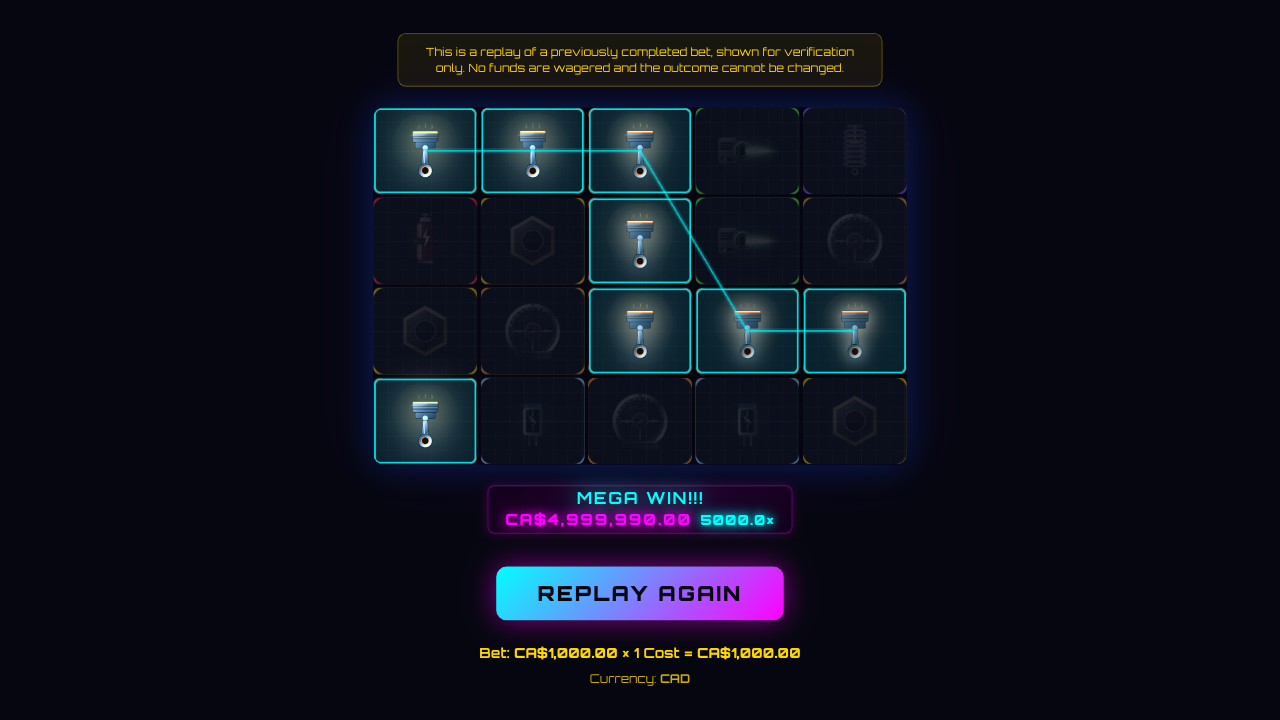
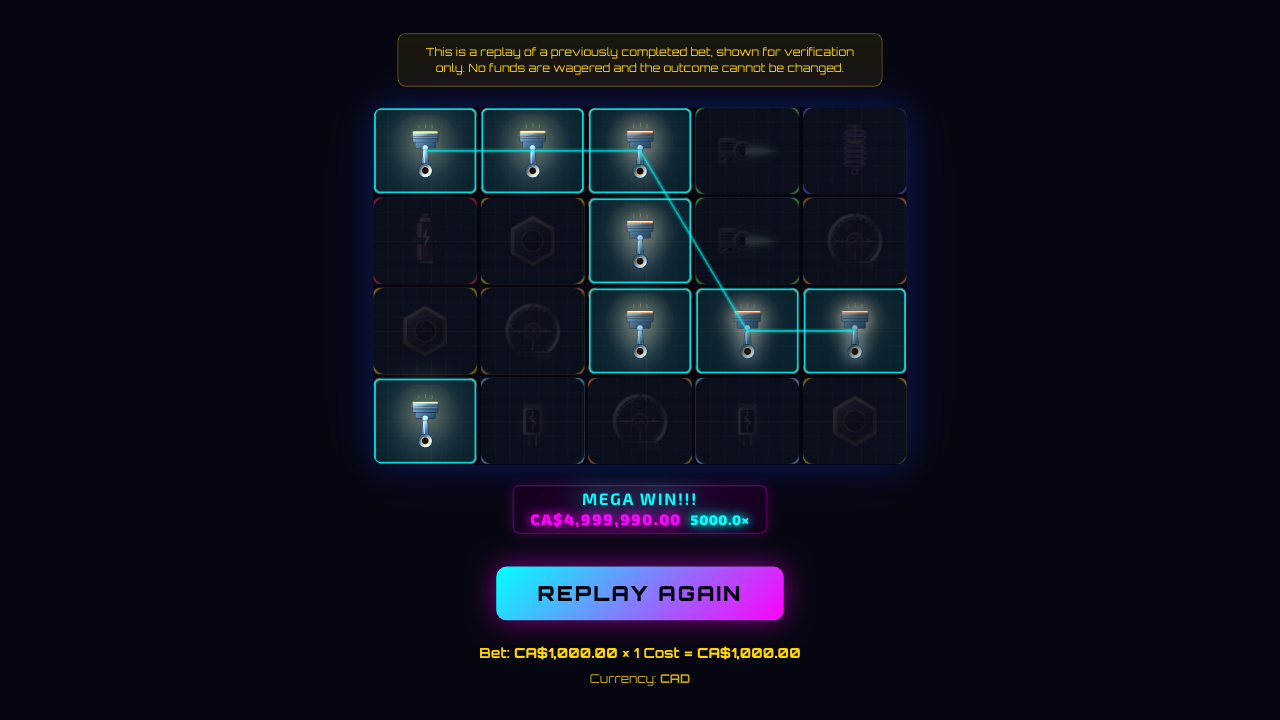
R072: the replay end-frame holds its spotlight, and the scope guard proves live did not move
TASK 1. A replay is a verification surface, not a play surface: a player opens it
to check one round, and the frame they end on is the frame they read. Until today
that end-frame was the teardown's. The burst dims the non-winners, a timer strips
that four seconds later, and the replay's own sequence completes two seconds
after the burst, so the settled board had every cell at full brightness and
nothing distinguishing the winning way. Measured on the shipped build: twelve of
twenty cells dimmed at the moment, zero at rest.

The motion still comes off, so nothing pulses forever and reduced motion is
unaffected, but the dim stays and the Pixi borders and connecting lines persist
with it, so the winning way reads as one shape.

Two choices recorded because either could look arbitrary later. The hold is its
own class rather than a skipped removal, because a class name survives
minification as a string and can therefore be seeded, where a control-flow branch
cannot. And the dim level is not copied: app.css lists the two classes in one
declaration block, so the end frame holds the moment's own treatment by
construction rather than by two numbers agreeing.

TASK 2. An in-page recorder installed before first paint samples every cell's
computed opacity at 100ms, so each drive reports the moment AND the rest state.
Both are needed: an end-state reading alone cannot tell a held spotlight from a
round that never had one. Five assertions, three sizes, both vocabularies,
[…]

Changed region(s): [[0.375, 0.6722, 0.625, 0.7639]]

diff --git a/frontend/src/lib/components/GameGrid.svelte b/frontend/src/lib/components/GameGrid.svelte
@@ -42,6 +42,7 @@
     scatterEscalation, resetEscalation, type EscalationLevel,
   } from '../stores/scatterEscalation'
   import { activeTheme, themeAssets } from '../stores/themeStore'
+  import { replayParams } from '../stores/replayStore'
 
   // Idle attract mode (ANIMATION UPLIFT PASS 2026-07-16, item 5): App.svelte
   // owns the 20s timer; this is just a boolean prop, so `class:` in the
@@ -756,12 +757,57 @@
     // autoplay scheduler's own fire-time re-check.
     const armWinBurstTeardown = () => setTimeout(() => {
       if (get(isWincap)) { winBurstTimer = armWinBurstTeardown(); return }
+      // THE REPLAY END-FRAME HOLDS ITS SPOTLIGHT (owner's direction, R072).
+      //
+      // A replay is a VERIFICATION surface, not a play surface. A player opens
+      // it to check one round, and the frame they end on is the frame they read.
+      // Until now that end-frame was the teardown's: this timer stripped the win
+      // presentation four seconds after the burst, the replay's own sequence
+      // completes two seconds after it, so the settled frame a player was left
+      // studying had every cell at full brightness and nothing distinguishing
+      // the winning way from the board around it.
+      //
+      // In replay the MOTION comes off exactly as before, so nothing pulses or
+      // flashes forever and reduced motion is unaffected, but the DIM STAYS: the
+      // non-winners keep `loser-dim`, which is the very treatment the moment
+      // itself used, and the winners keep full opacity. The Pixi overlay's gold
+      // borders and connecting lines are drawn once and cleared only by the next
+      // `animateSpin`, of which a finished replay has none, so they persist with
+      // it and the winning way reads as one shape.
+      //
+      // LIVE PLAY IS UNTOUCHED AND THAT IS THE POINT OF THE GUARD. `replayParams`
+      // is null in live play, so this branch cannot be entered there; the live
+      // teardown below is the same code it has always been, and the pixel guard
+      // in the proof battery asserts the live end-state has not moved a channel.
+      // Computed unconditionally rather than behind the flag, so the type is a
+      // Set and never a null the loop below has to re-narrow on every cell.
+      const holdSpotlight = get(replayParams) !== null
+      const winners = _winningCells(wins, board)
       for (let col = 0; col < REELS; col++) {
         for (let row = 0; row < ROWS; row++) {
           const img     = visImg(col, row)
           const overlay = visOverlay(col, row)
           const cell    = visCell(col, row)
-          if (img) { img.style.opacity = '1'; img.classList.remove('win-flash', 'loser-dim') }
+          if (img) {
+            img.style.opacity = '1'
+            img.classList.remove('win-flash', 'loser-dim')
+            // THE HOLD IS ITS OWN CLASS, NOT A SKIPPED REMOVAL, and that is a
+            // deliberate choice about what can be SEEDED. Leaving `loser-dim`
+            // in place would hold the dim, but the defect this must be provable
+            // against, the all-bright end-frame that shipped until today, could
+            // then only be seeded by patching a control-flow branch, which
+            // minifies to something no self-test can target honestly. A class
+            // name survives minification as a STRING, so the seed plants the
+            // real defect in the real form: rename the literal and no rule
+            // matches, the end frame goes all-bright, and the gate goes red.
+            // The level is not copied: app.css lists this class beside
+            // `loser-dim` in ONE rule, so the end frame holds the moment's own
+            // treatment by construction rather than by two numbers agreeing.
+            if (holdSpotlight && !winners.has(`${col},${row}`)) {
+              img.style.opacity = ''
+              img.classList.add('end-frame-dim')
+            }
+          }
           overlay?.classList.remove('win-spin-fast')
           cell?.classList.remove('plate-bloom', 'pre-charge')
         }
@@ -777,7 +823,10 @@
         const img     = visImg(col, row)
         const overlay = visOverlay(col, row)
         const cell    = visCell(col, row)
-        if (img) { img.style.opacity = '1'; img.classList.remove('win-flash', 'loser-dim') }
+          // `end-frame-dim` comes off here too. A feature replay drives several
+        // spins, so a held end frame from spin N must not survive into spin N+1;
+        // this is the path every new spin goes through.
+        if (img) { img.style.opacity = '1'; img.classList.remove('win-flash', 'loser-dim', 'end-frame-dim') }
         overlay?.classList.remove('win-spin-fast')
         cell?.classList.remove('plate-bloom', 'pre-charge', 'scatter-charge')
       }
@@ -1521,8 +1570,16 @@
   }
   .symbol-cell.plate-bloom { animation: plate-bloom-pulse 0.6s ease-in-out infinite; z-index: 5; }
 
-  /* Dimmed, desaturated losers - spotlight the winners (harder than before). */
-  .symbol-img:global(.loser-dim) {
+  /* Dimmed, desaturated losers - spotlight the winners (harder than before).
+
+     `end-frame-dim` is listed HERE, in the same rule, rather than given values
+     of its own. R072's owner direction is that the replay's settled end-frame
+     keeps non-winners at THE MOMENT-DIM LEVEL, and the only way to make that
+     true rather than approximately true is for the two states to be one
+     declaration block. Two rules with matching numbers drift the first time
+     either is tuned; this cannot. */
+  .symbol-img:global(.loser-dim),
+  .symbol-img:global(.end-frame-dim) {
     opacity: 0.2 !important;
     filter: grayscale(0.6) brightness(0.62) !important;
     animation: none !important;
@@ -1672,7 +1729,8 @@
     .symbol-cell.scatter-charge::before, .symbol-cell.scatter-charge::after { display: none; }
     /* Winners still spotlight, but statically (no pop / pulse / flash motion);
        losers still dim. Particle bursts are gated in JS (_reduceMotion). */
-    .symbol-img:global(.loser-dim) { transition: none; }
+    .symbol-img:global(.loser-dim),
+    .symbol-img:global(.end-frame-dim) { transition: none; }
     /* Item 4 additions: the neighbour dim stays (a static state, not motion)
        but loses its transition; edge sparks are motion, so they're hidden. */
     .symbol-grid:global(.grid-anticipating) .symbol-col:not(:global(.col-anticipate)) .reel-strip { transition: none; }

diff --git a/docs/records/reviews/REVIEW_TRACKER.md b/docs/records/reviews/REVIEW_TRACKER.md
@@ -487,8 +487,11 @@ Commit dates are authoritative. **Today is 2026-07-25**, and git agrees: the who
 
 | TR-163 | **The records swept to HEAD truth: fifty-two stale status cells across four registers, the fifty-one mapping's owner instruction, TR-148's unreadable citation, and Q6 honestly re-opened** (R071 TASK 8) | The consolidated open register at `reports/qa/analysis-2026-08-15/OPEN_REGISTER.md`, which enumerated 109 items and found 68 whose recorded status did not match `main` at `90f21280` | **FIXED AND CLOSED 2026-08-15 by R071.** **Of the 68, sixteen closed themselves when PR #123 and #124 merged**, thirteen of those being the stand-back LEDGER rows, which were never wrong: they described the state on an unmerged branch and now describe main. **The remaining fifty-two were swept by hand, and EVERY ONE was re-verified first-hand at HEAD before its cell was touched**, per rule 16, because the register itself marked 62 of its 68 as REPORTED rather than VERIFIED and a REPORTED premise says what to check, not what is true. Fourteen cells in `REVIEW_TRACKER.md`, twelve in `QUALITY_CHARTER.md` counting its three prose sections, twelve in the stream test's `KNOWN_OPEN.md`, and seven in `COMPLIANCE_WATCH.md` where two more had already been corrected on merge. **TR-148's citation is replaced**: it cited a GITIGNORED path no reviewer cloning the repository can open, so the finding was recounted from scratch and the recount is committed as a tracked artefact. **The fifty-one mapping is corrected**: its header set up a job that does not exist | Record integrity | `main` | **CLOSED 2026-08-15 by R071** | **THE SHAPES ARE WORTH MORE THAN THE COUNT, so they are named.** (1) **Rows that contradict themselves inside one cell** are the worst kind, because a reader has no way to tell which half was written later: TR-096's status read OPEN while its own notes ended "AMENDED AND CLOSED BY THE OWNER", and TR-069 and TR-071 read APPROVED FOR THE FIX PASS beside evidence cells reading FIXED and RESOLVED. (2) **Rows awaiting evidence about deleted components**: TR-087 and the compliance register's SA-022 both awaited a live re-capture of a surface that no longer exists, which no capture can ever close. (3) **Counts written into rows**, the convention (s) defect in miniature: Q-07's four instances are seven, TR-122's 337 is 272. **The row should name the file, never the number.** (4) **Signs left up after the work finished**: charter section 4.3 and the Q-16 park both described a pass as waiting that had already landed, and stayed that way because the closing pass had no instruction to come back. **What was NOT swept is named too**: the locale gate's own blind spot stays open and is deliberately not declared closed by a neighbouring gate, because two partial instruments are not one complete one; the RTL row is narrowed to the layout question rather than closed on the direction attribute; C-12 stays UNDISPOSITIONED because inventing a disposition now would be the thing the original note refused to do; and **AUDIT_CLOSURE Q6 is RE-OPENED rather than re-proved**, with what is missing named exactly: the session-bearing game url, which only exists once the owner launches the game in his own logged-in browser, and which no amount of builder work can produce |
 
-| TR-164 | **A 44px touch target that was only a coincidence, and the wider question of what the numeric token now means** (R071, found by the remote matrix on run 32237102403) | Remote CI, `browser: popout conformance`, three profiles red at once on 2026-08-15 | **FIXED AND CLOSED 2026-08-15 by R071.** The IntroSplash Continue button met the 44px accessibility floor **only as a side effect of its padding plus Orbitron's line box**. Exo 2's line box is shorter, so the height fell to 39 at popout S, popout L and mobile S simultaneously, which is the signature of a shared cause rather than three layout problems. **`min-height: 44px` now STATES the requirement** instead of leaving it to be inferred from font metrics, with the reason recorded at the rule. Re-run green: popout conformance across three viewports with real clicks, money fit at 205 assertions, layout fit at seven presets | Accessibility, player-facing | `main` | **CLOSED 2026-08-15 by R071** | **TWO THINGS ARE SURFACED HERE RATHER THAN DECIDED QUIETLY, per convention (n).** **(1) The token changed MEANING underneath forty-three consumers.** `--fs-font-numeric` was the face for money and counting, and the owner's ruling moved it to Exo 2 on that basis. But the token is also used by the Continue button, the loading screen, the hero splash and the dev theme selector, none of which is a money or counting surface, and all of them changed face without anyone deciding they should. **Whether those belong on the display face is an ART CALL and is left to the owner**, not taken by the builder; nothing about it is broken, and the enumeration is here so the question is asked from evidence rather than rediscovered from a screenshot. **(2) The gate's own label and threshold disagree**: the assertion is named "meets the 44px touch target" and tests `>= 40`. The fix above satisfies both readings, so nothing is masked, and the threshold is deliberately NOT changed here, because moving a gate's number in the same pass that makes it pass is how a gate stops meaning anything. Raised for a dedicated decision |
+| TR-164 | **A 44px touch target that was only a coincidence, and the wider question of what the numeric token now means** (R071, found by the remote matrix on run 32237102403) | Remote CI, `browser: popout conformance`, three profiles red at once on 2026-08-15 | **FIXED AND CLOSED 2026-08-15 by R071.** The IntroSplash Continue button met the 44px accessibility floor **only as a side effect of its padding plus Orbitron's line box**. Exo 2's line box is shorter, so the height fell to 39 at popout S, popout L and mobile S simultaneously, which is the signature of a shared cause rather than three layout problems. **`min-height: 44px` now STATES the requirement** instead of leaving it to be inferred from font metrics, with the reason recorded at the rule. Re-run green: popout conformance across three viewports with real clicks, money fit at 205 assertions, layout fit at seven presets | Accessibility, player-facing | `main` | **CLOSED 2026-08-15 by R071; the art call it raised is CLOSED 2026-08-20 by the owner** | **TWO THINGS ARE SURFACED HERE RATHER THAN DECIDED QUIETLY, per convention (n).** **(1) The token changed MEANING underneath forty-three consumers.** `--fs-font-numeric` was the face for money and counting, and the owner's ruling moved it to Exo 2 on that basis. But the token is also used by the Continue button, the loading screen, the hero splash and the dev theme selector, none of which is a money or counting surface, and all of them changed face without anyone deciding they should. **Whether those belong on the display face is an ART CALL and is left to the owner**, not taken by the builder; nothing about it is broken, and the enumeration is here so the question is asked from evidence rather than rediscovered from a screenshot. **(2) The gate's own label and threshold disagree**: the assertion is named "meets the 44px touch target" and tests `>= 40`. The fix above satisfies both readings, so nothing is masked, and the threshold is deliberately NOT changed here, because moving a gate's number in the same pass that makes it pass is how a gate stops meaning anything. Raised for a dedicated decision. **THE ART CALL IS ANSWERED, 2026-08-20, and the owner's review is quoted rather than summarised: the 1,024 plate confirmed in the new face at the glass, the blanket Exo 2 ruling stands.** So the forty-three consumers stay as they are, including the ones that are neither money nor counting, and this is now a RULING rather than an open question: a later session finding the Continue button on the numeric token should read this row and leave it alone. The 44px threshold question is untouched by that and remains the one live item from this row |
 
 | TR-165 | **The count-up gate measured a lone glyph's BOX where it meant the ADVANCE, and only the remote runner could tell** (R071, found by run 32240497823) | Remote CI, `browser: win count-up steady`, red on `main` while green locally on the same commit, 2026-08-15 | **FIXED AND CLOSED 2026-08-15 by R071.** The gate rendered each digit alone and compared element widths. **That is the wrong quantity.** A lone glyph's box is its ink PLUS its side bearings, quantised to whole device pixels, and side bearings are exactly what tabular figures do not equalise; the advance is the distance from one glyph to the next and therefore only exists BETWEEN glyphs. The measurement now renders each digit at two lengths and takes the difference divided by the gap, so the bearings appear in both terms and cancel and any rounding is divided by ten with everything else. **Spread across all ten digits: 0.00px.** The tolerance is 1px and it is stated rather than tuned: two orders of magnitude above the rounding it must absorb and two orders below the defect it must catch, and the seed proves the second half on every run at a spread of 28.36px | Gate correctness | `main` | **CLOSED 2026-08-15 by R071 on the THIRD attempt, and all three are recorded rather than overwritten, because each was wrong in a way that looked right on this machine** | **THE FIRST FIX WAS RIGHT AND INSUFFICIENT, and saying so is the useful part.** Measuring the advance as a delta was correct and is kept. It did NOT make the gate green: the runner still reported a 2.00px spread where this machine reported 0.00, and a 2px difference is not rounding, so the delta could not be the whole story. **The real cause was that the probe never proved WHICH FACE it was measuring.** `document.fonts.status === 'loaded'` means every face the page has ASKED FOR has arrived; the probe renders at weight 900 in a detached host, and if nothing on the page happens to use that exact face and weight then nothing ever asked, so the probe measured a FALLBACK and reported its metrics as ours. Warm locally, cold on the runner, and the gate could not tell the difference. It now calls `document.fonts.load()` for both probe faces explicitly, then `document.fonts.check()` on each, and THROWS if either is absent. **A gate that cannot say which face it measured is not measuring anything**, and this estate has now paid for that exact lesson twice: once earlier in this arc when a proof waited on `document.fonts.ready` and got the same false green. **AND THAT THEORY WAS ALSO WRONG, which is why the third attempt exists.** The runner printed "faces confirmed loaded" and STILL reported a 2.00px spread. The face proof is kept because it is correct and cheap and closes a real hole, but it was not the cause. **The cause was that both earlier forms asked their question of an artefact a counter never renders**: a single glyph, or the difference between two of them, on a renderer reporting whole pixels. The measurement now asks what the count-up actually poses, **ten same-length digit runs must render at ONE width**, which needs no division, no tolerance beyond the renderer's own pixel, and returns every total so a failing run NAMES the digits that disagree. Spread 0.00px across all ten, narrowest and widest both 416.81; the seed reproduces at **283.52px**. **AND THE THIRD FORM WENT RED ON THE RUNNER TOO, which is what finally produced usable data**: ten runs of "0" measured 420px and ten runs of "4" measured 440px, on a build where the faces were confirmed loaded and where "$1,111.11" and "$8,888.88" still rendered at one width. Measured here for comparison, Exo 2 900 renders all ten runs at 416.81 with tabular figures on and spreads 123.52px with them off, and the runner's figures sit between the two: **the signature of the high-level `font-variant-numeric` property not reaching the shaper on that build**, rather than of a missing font or of rounding. **Four changes followed, and only the first is a workaround.** (1) `app.css` now asks for the same feature on BOTH paths, adding `font-feature-settings: 'tnum' 1` beside `font-variant-numeric: tabular-nums`; they are byte-identical here, so nothing shipped moves, and **a player's browser is not this machine either**. (2) The probe no longer restates the numeric treatment in its own style block: it carries `fs-num` and takes the SHIPPED rule, so deleting that rule from `app.css` now fails the gate instead of leaving it green. (3) The rule's PRESENCE is asserted directly on all three declarations, so a uniform face could never cover for a deleted rule. (4) All ten widths PRINT on every run, passing or not, because reporting only a verdict turned a red run on a machine nobody can open into a guessing game, and it cost two wrong theories before it stopped. **AND THE PRINT IMMEDIATELY EARNED ITSELF: the array came back `0=420 1=420 2=420 3=420 4=440 5=420 6=420 7=420 8=420 9=420`.** NINE of the ten digits agreed exactly and ONE, the "4", was 2px per glyph wider. **That settles it, and it settles it against my own second theory too**: tabular figures were demonstrably applied, on nine digits out of ten, so the feature was never the problem; and 2px a glyph is not rounding, which is at most one pixel. **It is the rasteriser's HINTER moving one specific glyph's advance**, which FreeType does and which Windows and macOS do not do the same way, and which nothing about asking for `tnum` can reach because `tnum` had already been applied. The fix is `text-rendering: geometricPrecision` on the same rule, the property that asks the renderer to prefer the font's GEOMETRIC metrics over the hinter's legibility adjustments, which is exactly the trade a fixed-width counter wants. **This is a PLAYER fix and not a CI accommodation**: a Linux browser with that hinting configuration would have jumped the counter 2px every time a 4 rolled past, and nobody would have seen it here. The gate asserts the declaration alongside the other three. **THE CONFIRMATION IS EXACT AND IT IS THE STRONGEST EVIDENCE IN THIS ROW.** Before the fix the runner reported WHOLE-PIXEL widths, nine at 420 and one at 440; after it, the runner reports `0=416.81 1=416.81 2=416.81 3=416.81 4=416.81 5=416.81 6=416.81 7=416.81 8=416.81 9=416.81`, **fractional, and identical to this machine to the hundredth of a pixel on all ten**. The integers were the hinter snapping advances; with geometric metrics the two machines agree exactly, which is what a font's own metrics should produce and what they now do |  **THE DISAGREEMENT BETWEEN THE TWO MACHINES IS THE FINDING, and it is exactly what rule 10 exists for.** Locally every digit read 41.69 and the gate was green; on the runner the same digits read 42 and 44 and it was red. Same commit, same build. **A local green was never evidence here, and this is the clearest instance the estate has produced of why**: the two machines differ in device pixel ratio, so one of them rounds the quantity this gate was reading and the other does not. **The tell that the gate was measuring the wrong thing was sitting in its own passing output**: the two full amounts rendered at 329px and 329px on the very run where the per-digit read disagreed, so tabular figures were demonstrably working while the assertion said they were not. An assertion that contradicts its neighbour on the same run is measuring something other than what it names |
 
 | TR-166 | **The new OVERBOOST wording put a PROHIBITED TERM on a stake.us surface**, and the social conformance gate caught it (R071, found by run 32242271451) | Remote CI, `browser: social string conformance`, 2026-08-15 | **FIXED AND CLOSED 2026-08-15 by R071, and this is the most player-facing defect the session produced.** TASK 5 applied the owner's OVERBOOST text verbatim, correctly, to the master string AND to the social override. The master reads "Debits 1.25x every spin while ON" and **"Debits" is a PROHIBITED TERM in social mode**: it names a real-money movement, and a stake.us surface must not. The gate reported both halves of the same mistake, `overboost.socialBlurb` failing because the pinned social text was the superseded "Double-chance" wording, and `social.no_Debits` failing because the master's word had reached the social render. **The social override now differs from the master by exactly one word**, "Costs", which is the word the superseded social blurb already used, so the register change is invisible to a player and the compliance property is restored. The gate's pinned expectation is conformed to the new wording rather than left defending the text the ruling removed | **Player-facing compliance, social mode** | `main` | **CLOSED 2026-08-15 by R071** | **THE LESSON IS ABOUT WHAT "VERBATIM" MEANS, and it is worth stating plainly because the instruction was followed exactly and still produced a defect.** A brief supplying player text verbatim supplies it for the MASTER register. Social mode is a different register with a prohibited-term list, and `prose.ts` already carries a rule for precisely this: **a string that reads identically in both modes is deliberately ABSENT rather than repeated**, so the act of writing an identical social override was itself the tell that something was wrong. Convention (s)'s test applies to text as much as to numbers: the master and the social string are two things that must not be assumed to agree. Re-run green: social string conformance all checks, plus locale completeness, the machine tell gate, the multiplication sign gate and the kit basis gate at 24 phrases across 7 files with its four seeds still caught |
+
+| TR-167 | **The replay's settled end-frame threw away the very thing a player opened it to see** (R072 TASK 1, owner polish direction) | Owner direction relayed in FABLE BRIEF R072, 2026-08-20 | **FIXED AND CLOSED 2026-08-20 by R072.** A replay is a VERIFICATION surface, not a play surface: a player opens it to check ONE round, and the frame they end on is the frame they actually read. Until today that end-frame was the teardown's. `GameGrid`'s win burst dims the non-winning cells, a timer strips that treatment **four seconds** later, and the replay's own sequence completes **two seconds** after the burst, so the settled board a player was left studying had **every cell at full brightness and nothing distinguishing the winning way from the board around it**. Measured on the shipped build at three sizes: twelve of twenty visible cells dimmed at the moment, **zero** still dimmed at rest. Now the MOTION comes off exactly as before, so nothing pulses or flashes forever, and the DIM STAYS. The Pixi overlay's gold borders and connecting lines are drawn once and cleared only by the next `animateSpin`, of which a finished replay has none, so they persist with it and **the winning way reads as one shape rather than as five lit tiles** | Player-facing, the verification surface | `main` | **CLOSED 2026-08-20 by R072** | **TWO IMPLEMENTATION CHOICES ARE RECORDED BECAUSE EITHER COULD LOOK ARBITRARY LATER.** (1) **The hold is its own class, `end-frame-dim`, not a skipped removal.** Leaving `loser-dim` in place would hold the dim just as well, but then the defect this must be provable against, the all-bright frame that shipped until today, could only be seeded by patching a control-flow branch, which minifies into something no self-test can target honestly. **A class name survives minification as a STRING**, so the seed plants the real defect in its real form. (2) **The dim LEVEL is not copied.** `app.css` lists `end-frame-dim` beside `loser-dim` in ONE declaration block, so the end frame holds the moment's own treatment **by construction**; two rules with matching numbers drift the first time either is tuned, and this cannot. `_resetToIdle` clears the class too, so a feature replay's spin N cannot leak its held frame into spin N+1 |
+| TR-168 | **The end-frame proof, and the scope guard that proves live play did not move** (R072 TASK 2) | R072 TASK 2, 2026-08-20 | **FIXED AND CLOSED 2026-08-20 by R072.** `replay_contract_gate.mjs` gains an in-page recorder installed BEFORE first paint, sampling every money-bearing cell's COMPUTED opacity at 100ms, so the drive reports both what the board looked like AT THE MOMENT and what it looks like once everything settles. **Both are needed and that is the point**: a reading of only the end state cannot tell a held spotlight from a round that never had one. Five assertions per drive, separated so a failure names which claim broke: the recorder sampled; a spotlight ran; cells are still dimmed at rest; **the settled dim set is the moment's set, unchanged**; and some cells are at full strength so the winning way still reads. Driven at **Desktop 1280x720, Mobile S 320x568 and Popout S 400x225**, in **both vocabularies** (a fiat currency and a social one), plus a **reduced-motion** drive that must produce the identical set. Eight frames committed. **Seeded per (p) with today's all-bright end-frame as the negative control**: the seed renames the hold's class in the shipped bundle so no rule matches, and the gate goes red on exactly the assertion that says the dim is held. 15 of 15 seeds caught, 86 of 86 assertions green | Proof integrity | `main` | **CLOSED 2026-08-20 by R072** | **THE SCOPE GUARD IS THE SAME BOARD ON THE OTHER SURFACE, and that is what makes it mean something.** It boots the ORDINARY game with a stubbed wallet serving **the same fixture events** the replay leg reads, presses SPIN, and asserts the settled board is ALL BRIGHT. Feeding the two surfaces different rounds would have left the comparison empty. Measured: **12 cells dimmed at the moment on both surfaces; replay holds all 12, live clears to 0.** **It also caught its own first draft**: the guard initially reported a peak of zero, which is a board that never had a spotlight rather than a board whose spotlight was correctly torn down, and those two must never be allowed to look alike, the same trap this gate's own unapplied-seed ledger exists to prevent. The cause was that a replay plays itself on load while live play does nothing until someone presses the button; the drive now presses it. **ONE NAMING DIFFERENCE IS SURFACED PER (n) RATHER THAN SMOOTHED OVER**: this gate's pre-existing size loop uses mobile-portrait 375x812, while Mobile S across the rest of the gate family (contrast, layout fit, direction parity, popout conformance) is 320x568. The brief names Mobile S, so Mobile S is what the end-frame battery drives, and the narrower of the two is the harder read anyway. **FIVE PRE-EXISTING COMMITTED FRAMES CHANGED IN THIS PASS AND THAT IS THE FIX BECOMING VISIBLE, NOT EVIDENCE DRIFT**, which convention (h.1) would otherwise make this look like: the three `feature_*` frames and the two `worst_case_banner_*` frames are all REPLAY END-FRAMES, so every one of them now shows the held spotlight where it previously showed an all-bright board. They were regenerated in a job whose brief says frames are committed, which is the only circumstance (h.1) permits, and the gate's own 86 assertions over those same drives are unchanged and green |

diff --git a/reports/briefs/FS_FABLE_R072_REPLAY_ENDFRAME_Prompt.md b/reports/briefs/FS_FABLE_R072_REPLAY_ENDFRAME_Prompt.md
@@ -1,0 +1,24 @@
+FABLE BRIEF R072: REPLAY END-FRAME READ, OWNER POLISH DIRECTION
+(2026-08-20). Sole live brief. Owner direction: nothing ships deferred;
+the replay's settled end-frame keeps non-winning cells dimmed so the
+winning way reads unmistakably. Judgement tier, one short session,
+Australian English, no em or en dashes. Save and commit verbatim.
+Explicit-path commits, remote CI green per rule 10, comms folded per (t).
+TASK 1. In the REPLAY VIEW ONLY: once presentation settles, non-winning
+cells hold the dimmed treatment (the moment-dim level) while winning
+cells and their connecting lines stay at full strength, both
+vocabularies, all reference sizes, reduced-motion identical. SCOPE
+GUARD: live-play presentation and its end-state are untouched and
+pixel-guarded; this is the replay verification surface reading harder,
+nothing else.
+TASK 2, PROOF. The replay proof gains the end-frame assertion, winning
+cells at full opacity, non-winners dimmed, at Desktop, Mobile S and
+Popout S, frames committed; seeded per (p) with today's all-bright
+end-frame as the negative control; the live-play pixel guard runs in
+the same battery.
+CLOSE. TR-164 CLOSED with the owner's review quoted: the 1,024 plate
+confirmed in the new face at the glass, the blanket Exo 2 ruling stands.
+Tracker rows, full matrix green, rebuild at the tip, print the stamp
+for the owner's single dist sync, tree clean. FOR THE NEXT SESSION:
+the owner's end-frame glance, then Q6, Provably Fair, the fifty-one
+walk, Start Approval on the owner's word.
